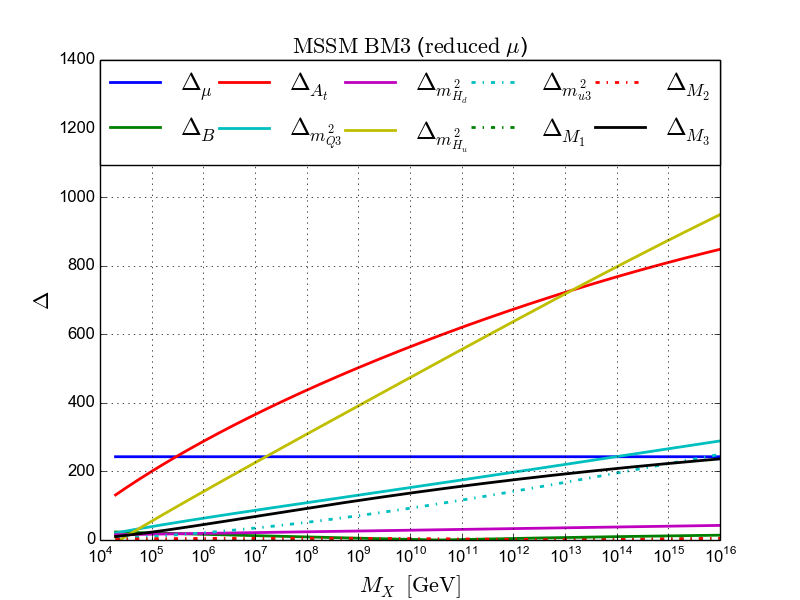
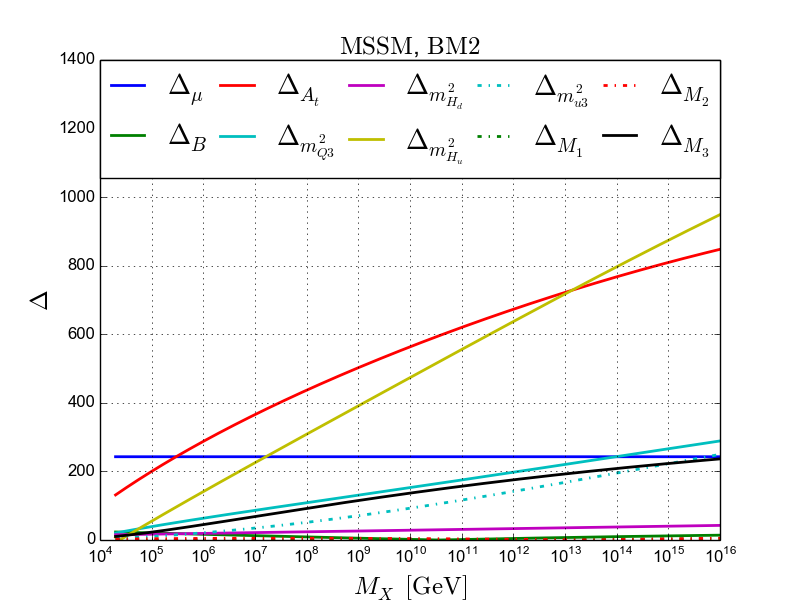
Fixed labels on benchmark plots

diff --git a/paper/e6ssm-tuning-paper.tex b/paper/e6ssm-tuning-paper.tex
@@ -1097,13 +1097,13 @@ $B_{\mathrm{eff}}=A_\lambda$. The soft masses $m_{H_d}^2$, $m_{H_u}^2$ and $m_S^
 \resizebox{!}{5.5cm}{%
 \includegraphics{e6ssm_mssm_cutoff_scan_4_benchmark_points_tuning_vs_cutoff.png} } \\
 \resizebox{!}{5.5cm}{%
-\includegraphics{mssm_cutoff_scan_tb10_fixed_at_ms_all_tuning_data.png}} 
+\includegraphics{mssm_cutoff_scan_tb10_fixed_at_ms_BM1_all_tuning_data.png}} 
 \resizebox{!}{5.5cm}{%
-\includegraphics{e6ssm_light_zprime_cutoff_scan_tb10_BM1_all_tuning_data.png}} \\
+\includegraphics{e6ssm_light_zprime_cutoff_scan_tb10_fixed_at_ms_BM1_all_tuning_data.png}} \\
 \resizebox{!}{5.5cm}{%
 \includegraphics{mssm_cutoff_scan_tb10_fixed_at_ms_BM2_all_tuning_data.png}} 
 \resizebox{!}{5.5cm}{%
-\includegraphics{e6ssm_light_zprime_cutoff_scan_tb10_BM2_all_tuning_data.png}}%%
+\includegraphics{e6ssm_light_zprime_cutoff_scan_tb10_fixed_at_ms_BM2_all_tuning_data.png}}%%
 \caption{{\it Top panel:} Scatter plot of fine tuning vs cutoff scale $M_X$ for the three benchmark points given in Table \ref{tab:benchmarks}.  {\it Middle left panel:}  Individual sensitivities of the MSSM benchmark plotted against the high scale $M_X$ which give an overall tuning shown by the green line in top left panel.  {\it Middle right panel:} Individual sensitivities of E$_6$SSM BM1 plotted against the high scale $M_X$ which give an overall tuning shown by the blue line in top left panel.{\it Bottom right panel:} Individual sensitivities of MSSM BM2 plotted against the high scale $M_X$ which give an overall tuning shown by the red line in top left panel.  {\it Bottom right panel:} Individual sensitivities of E$_6$SSM BM2 plotted against the high scale $M_X$ which give an overall tuning shown by the red line in top left panel.    }
 \label{Fig:BMs-varyMX}
 \end{center}
